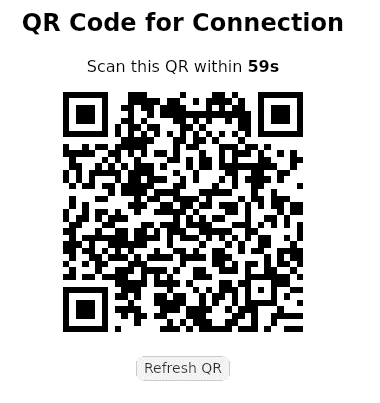
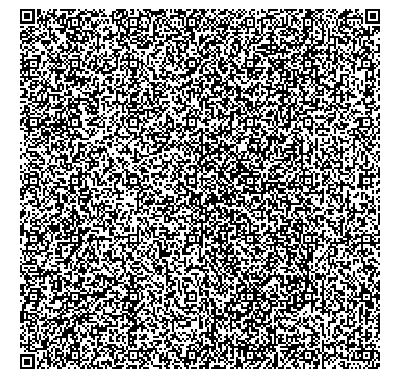
Implement chat functionality in ChatPage component, allowing users to send and receive messages. Update QRCodeBlock dimensions for better display. Add send_text command in signaling module to handle message transmission. Enhance WebRTC peer connection management for improved messaging experience.

diff --git a/src/components/ChatPage.tsx b/src/components/ChatPage.tsx
@@ -1,15 +1,57 @@
-type Props = {
-  onDisconnect: () => void;
-};
+import { useEffect, useState } from "react";
+import { invoke } from "@tauri-apps/api/core";
+import { listen } from "@tauri-apps/api/event";
+
+type Props = { onDisconnect: () => void };
+
+interface Msg { fromMe: boolean; text: string }
 
 export default function ChatPage({ onDisconnect }: Props) {
+  const [text, setText] = useState("");
+  const [log, setLog] = useState<Msg[]>([]);
+
+  // входящие события
+  useEffect(() => {
+    const un = listen<string>("ssc-msg", e => {
+      setLog(l => [...l, { fromMe: false, text: e.payload }]);
+    });
+    return () => { un.then(f => f()); };
+  }, []);
+
+  async function send() {
+    if (!text.trim()) return;
+    const ok = await invoke<boolean>("send_text", { msg: text });
+    if (ok) setLog(l => [...l, { fromMe: true, text }]);
+    else alert("not connected");
+    setText("");
+  }
+
   return (
-    <div style={{ padding: 32, textAlign: "center" }}>
-      <h2>🔒 Chat connected!</h2>
-      <p>(Messaging logic will be implemented next — WebRTC & crypto)</p>
-      <button className="main-btn" onClick={onDisconnect} style={{ marginTop: 24 }}>
-        Disconnect
-      </button>
+    <div style={{ padding: 24 }}>
+      <h2>🔒 Connected – start chatting</h2>
+
+      <div style={{ height: 280, overflowY: "auto", border: "1px solid #ccc", padding: 8, marginBottom: 12 }}>
+        {log.map((m, i) => (
+          <div key={i} style={{ textAlign: m.fromMe ? "right" : "left", margin: "4px 0" }}>
+            <span style={{ background: m.fromMe ? "#4caf50" : "#2196f3", color: "#fff", padding: "6px 10px", borderRadius: 8 }}>
+              {m.text}
+            </span>
+          </div>
+        ))}
+      </div>
+
+      <form onSubmit={e => { e.preventDefault(); send(); }} style={{ display: "flex", gap: 8 }}>
+        <input
+          style={{ flex: 1, padding: 8, borderRadius: 6, border: "1px solid #ccc" }}
+          value={text}
+          onChange={e => setText(e.target.value)}
+          placeholder="Type message…"
+        />
+        <button className="main-btn" style={{ padding: "0 16px" }}>Send</button>
+        <button className="main-btn" style={{ background: "#d32f2f", padding: "0 16px" }} onClick={onDisconnect} type="button">
+          Disconnect
+        </button>
+      </form>
     </div>
   );
 }

diff --git a/src/components/QRCodeBlock.tsx b/src/components/QRCodeBlock.tsx
@@ -35,8 +35,8 @@ export default function QRCodeBlock({ onBack }: Props) {
       const ctx = canvas.getContext("2d");
       const img = new Image();
 
-      canvas.width = 240;
-      canvas.height = 240;
+      canvas.width = 480360;
+      canvas.height = 480360;
 
       img.onload = () => {
         if (ctx) {
@@ -112,7 +112,7 @@ export default function QRCodeBlock({ onBack }: Props) {
       <p>Scan this QR within <b>{seconds}s</b></p>
       {offer && (
         <div style={{ position: "relative", display: "inline-block" }}>
-          <QRCodeSVG ref={qrRef} value={offer} size={240} />
+          <QRCodeSVG ref={qrRef} value={offer} size={360} />
         </div>
       )}
       <div style={{ margin: "20px 0" }}>

diff --git a/src-tauri/src/webrtc_peer.rs b/src-tauri/src/webrtc_peer.rs
@@ -2,7 +2,7 @@ use once_cell::sync::Lazy;
 use std::sync::{Arc, Mutex};
 use webrtc::{
     api::APIBuilder,
-    data_channel::{data_channel_init::RTCDataChannelInit},
+    data_channel::{data_channel_init::RTCDataChannelInit, RTCDataChannel},
     ice_transport::ice_server::RTCIceServer,
     peer_connection::{
         configuration::RTCConfiguration,
@@ -13,128 +13,121 @@ use webrtc::{
 use base64::{engine::general_purpose, Engine as _};
 use rand::Rng;
 use serde::{Deserialize, Serialize};
+use tauri::{AppHandle, Emitter};
 
-/// Глобальный singleton — текущий peer
+/// ========  GLOBALS  =========
 pub static PEER: Lazy<Mutex<Option<Arc<RTCPeerConnection>>>> =
     Lazy::new(|| Mutex::new(None));
+static DATA_CH: Lazy<Mutex<Option<Arc<RTCDataChannel>>>> =
+    Lazy::new(|| Mutex::new(None));
 
-/// Обёртка для (OFFER|ANSWER) в QR
 #[derive(Serialize, Deserialize)]
 pub struct SdpPayload {
     pub sdp: RTCSessionDescription,
-    pub id: String,          // случайный ID сессии
-    pub ts:  i64,            // unix-time
+    pub id: String,
+    pub ts: i64,
 }
 
-//—─────────────────────────────────────────────────────────────
-
+/// ========  HELPERS  =========
 fn rtc_config() -> RTCConfiguration {
     RTCConfiguration {
-        ice_servers: vec![
-            // публичные STUN (работают без логина)
-            RTCIceServer {
-                urls: vec![
-                    "stun:stun.l.google.com:19302".into(),
-                    "stun:stun1.l.google.com:19302".into(),
-                ],
-                ..Default::default()
-            },
-            // пример TURN
-            // RTCIceServer {
-            //     urls: vec!["turn:relay.example.com:3478".into()],
-            //     username: "user".into(),
-            //     credential: "pass".into(),
-            //     ..Default::default()
-            // },
-        ],
+        ice_servers: vec![RTCIceServer {
+            urls: vec![
+                "stun:stun.l.google.com:19302".into(),
+                "stun:stun1.l.google.com:19302".into(),
+            ],
+            ..Default::default()
+        }],
         ..Default::default()
     }
 }
 
-async fn new_peer() -> Arc<RTCPeerConnection> {
+async fn new_peer(app: AppHandle) -> Arc<RTCPeerConnection> {
     let api = APIBuilder::new().build();
     let pc = Arc::new(api.new_peer_connection(rtc_config()).await.unwrap());
 
-    // Data-channel; сообщения пока просто выводим
     let dc = pc
         .create_data_channel("ssc-data", Some(RTCDataChannelInit::default()))
         .await
         .unwrap();
 
-    dc.on_message(Box::new(move |msg| {
-        println!("[DATA] {:?}", String::from_utf8_lossy(&msg.data));
-        Box::pin(async {})
-    }));
+    {
+        let mut dlock = DATA_CH.lock().unwrap();
+        *dlock = Some(dc.clone());
+    }
 
-    pc.on_peer_connection_state_change(Box::new(|state| {
-        println!("★ Peer state: {state:?}");
+    dc.on_message(Box::new(move |msg| {
+        let app = app.clone();
+        tauri::async_runtime::spawn(async move {
+            app.emit("ssc-msg", String::from_utf8_lossy(&msg.data).to_string())
+                .ok();
+        });
         Box::pin(async {})
     }));
 
     pc
 }
 
-//—─────────────────────────────────────────────────────────────
-// helper: ждём окончания ICE-gathering, затем берём полное SDP
 async fn wait_gathering_complete(pc: &RTCPeerConnection) {
-    let mut gather_complete = pc.gathering_complete_promise().await;
-    gather_complete.recv().await;
+    let mut done = pc.gathering_complete_promise().await;
+    done.recv().await;
 }
 
-//—─────────────────────────────────────────────────────────────
-// PUBLIC API (вызываем через Tauri invoke)
-//—─────────────────────────────────────────────────────────────
+fn random_id() -> String {
+    let mut rng = rand::rng();
+    hex::encode(rng.random::<[u8; 8]>())
 
-/// Шаг 1 (A): генерируем OFFER, кодируем base64 → QR
-pub async fn generate_offer() -> String {
-    let pc = new_peer().await;
+}
+fn encode_payload(p: &SdpPayload) -> String {
+    general_purpose::STANDARD.encode(serde_json::to_string(p).unwrap())
+}
+fn decode_payload(s: &str) -> SdpPayload {
+    serde_json::from_slice(&general_purpose::STANDARD.decode(s).unwrap()).unwrap()
+}
+
+/// ========  PUBLIC API =========
+
+pub async fn generate_offer(app: AppHandle) -> String {
+    let pc = new_peer(app).await;
     {
         let mut lock = PEER.lock().unwrap();
         *lock = Some(pc.clone());
     }
-
     let offer = pc.create_offer(None).await.unwrap();
-    pc.set_local_description(offer.clone()).await.unwrap();
+    pc.set_local_description(offer).await.unwrap();
     wait_gathering_complete(&pc).await;
 
     let payload = SdpPayload {
         sdp: pc.local_description().await.unwrap(),
-        id:  random_id(),
-        ts:  chrono::Utc::now().timestamp(),
+        id: random_id(),
+        ts: chrono::Utc::now().timestamp(),
     };
     encode_payload(&payload)
 }
 
-/// Шаг 2 (B): приняли OFFER (encoded), создаём ANSWER
-pub async fn accept_offer_and_create_answer(encoded_offer: String) -> String {
-    let offer: SdpPayload = decode_payload(&encoded_offer);
-    let pc = new_peer().await;
+pub async fn accept_offer_and_create_answer(encoded: String, app: AppHandle) -> String {
+    let offer: SdpPayload = decode_payload(&encoded);
+    let pc = new_peer(app).await;
     {
         let mut lock = PEER.lock().unwrap();
         *lock = Some(pc.clone());
     }
-
     pc.set_remote_description(offer.sdp).await.unwrap();
     let answer = pc.create_answer(None).await.unwrap();
-    pc.set_local_description(answer.clone()).await.unwrap();
+    pc.set_local_description(answer).await.unwrap();
     wait_gathering_complete(&pc).await;
 
     let payload = SdpPayload {
         sdp: pc.local_description().await.unwrap(),
-        id:  offer.id,                        // тот же id сессии
-        ts:  chrono::Utc::now().timestamp(),
+        id: offer.id,
+        ts: chrono::Utc::now().timestamp(),
     };
     encode_payload(&payload)
 }
 
-/// Шаг 3 (A): получаем ANSWER, завершаем соединение
-pub async fn set_answer(encoded_answer: String) -> bool {
-    let answer: SdpPayload = decode_payload(&encoded_answer);
-    let pc = {
-        let lock = PEER.lock().unwrap();
-        lock.as_ref().cloned()
-    };
-    
+pub async fn set_answer(encoded: String) -> bool {
+    let answer: SdpPayload = decode_payload(&encoded);
+    let pc = { PEER.lock().unwrap().as_ref().cloned() };
     if let Some(pc) = pc {
         pc.set_remote_description(answer.sdp).await.is_ok()
     } else {
@@ -142,17 +135,12 @@ pub async fn set_answer(encoded_answer: String) -> bool {
     }
 }
 
-//—──────────────── helpers ────────────────
-fn random_id() -> String {
-    let mut rng = rand::rng();
-    let bytes: [u8; 8] = rng.random();
-    hex::encode(bytes)
-}
-fn encode_payload(p: &SdpPayload) -> String {
-    let json = serde_json::to_string(p).unwrap();
-    general_purpose::STANDARD.encode(json)
-}
-fn decode_payload(s: &str) -> SdpPayload {
-    let json = String::from_utf8(general_purpose::STANDARD.decode(s).unwrap()).unwrap();
-    serde_json::from_str(&json).unwrap()
+/// ========  TEXT SEND  =========
+pub async fn send_text(text: String) -> bool {
+    let ch = { DATA_CH.lock().unwrap().as_ref().cloned() };
+    if let Some(dc) = ch {
+        dc.send_text(text).await.is_ok()
+    } else {
+        false
+    }
 }

diff --git a/src-tauri/src/signaling.rs b/src-tauri/src/signaling.rs
@@ -1,17 +1,23 @@
 use tauri::command;
 use crate::webrtc_peer;
+use tauri::AppHandle;
 
 #[command]
-pub async fn generate_offer() -> String {
-    webrtc_peer::generate_offer().await
+pub async fn generate_offer(app: AppHandle) -> String {
+    webrtc_peer::generate_offer(app).await
 }
 
 #[command]
-pub async fn accept_offer_and_create_answer(encoded: String) -> String {
-    webrtc_peer::accept_offer_and_create_answer(encoded).await
+pub async fn accept_offer_and_create_answer(encoded: String, app: AppHandle) -> String {
+    webrtc_peer::accept_offer_and_create_answer(encoded, app).await
 }
 
 #[command]
 pub async fn set_answer(encoded: String) -> bool {
     webrtc_peer::set_answer(encoded).await
+}
+
+#[command]
+pub async fn send_text(msg: String) -> bool {
+    webrtc_peer::send_text(msg).await
 }

diff --git a/src-tauri/src/lib.rs b/src-tauri/src/lib.rs
@@ -14,6 +14,7 @@ pub fn run() {
             signaling::generate_offer,
             signaling::accept_offer_and_create_answer,
             signaling::set_answer,
+            signaling::send_text,
             greet
         ])
         .run(tauri::generate_context!())
